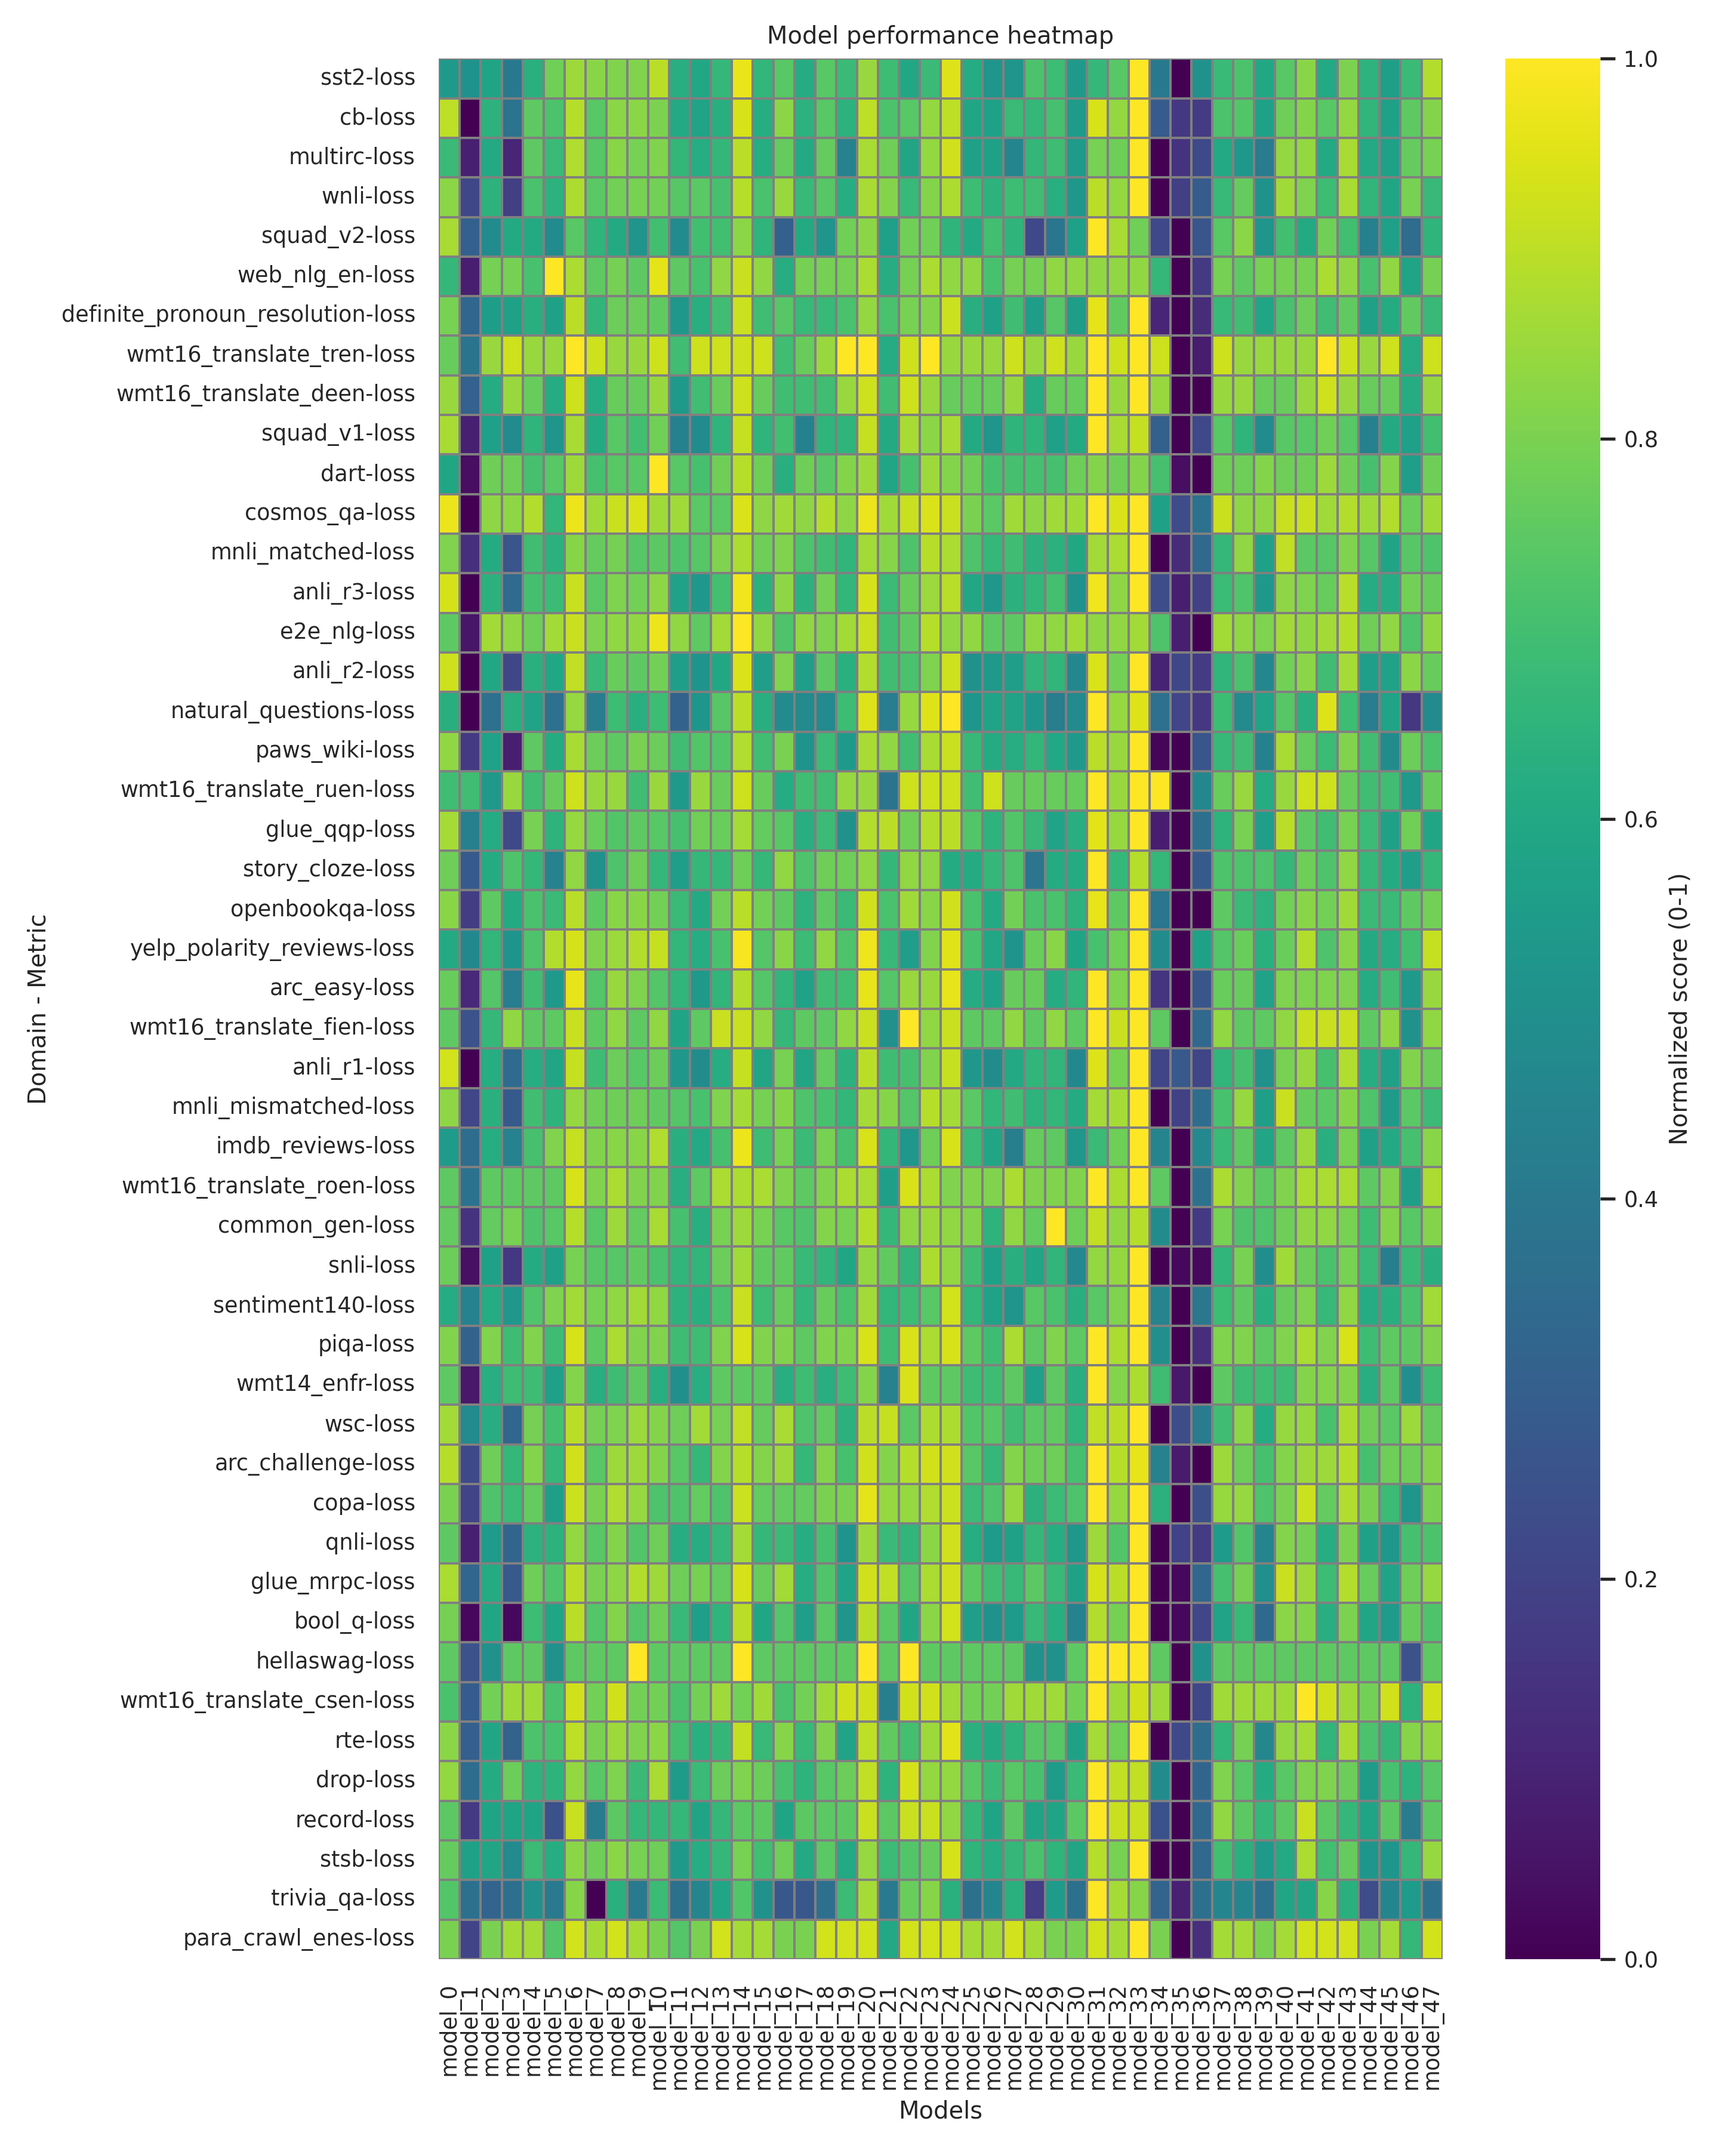
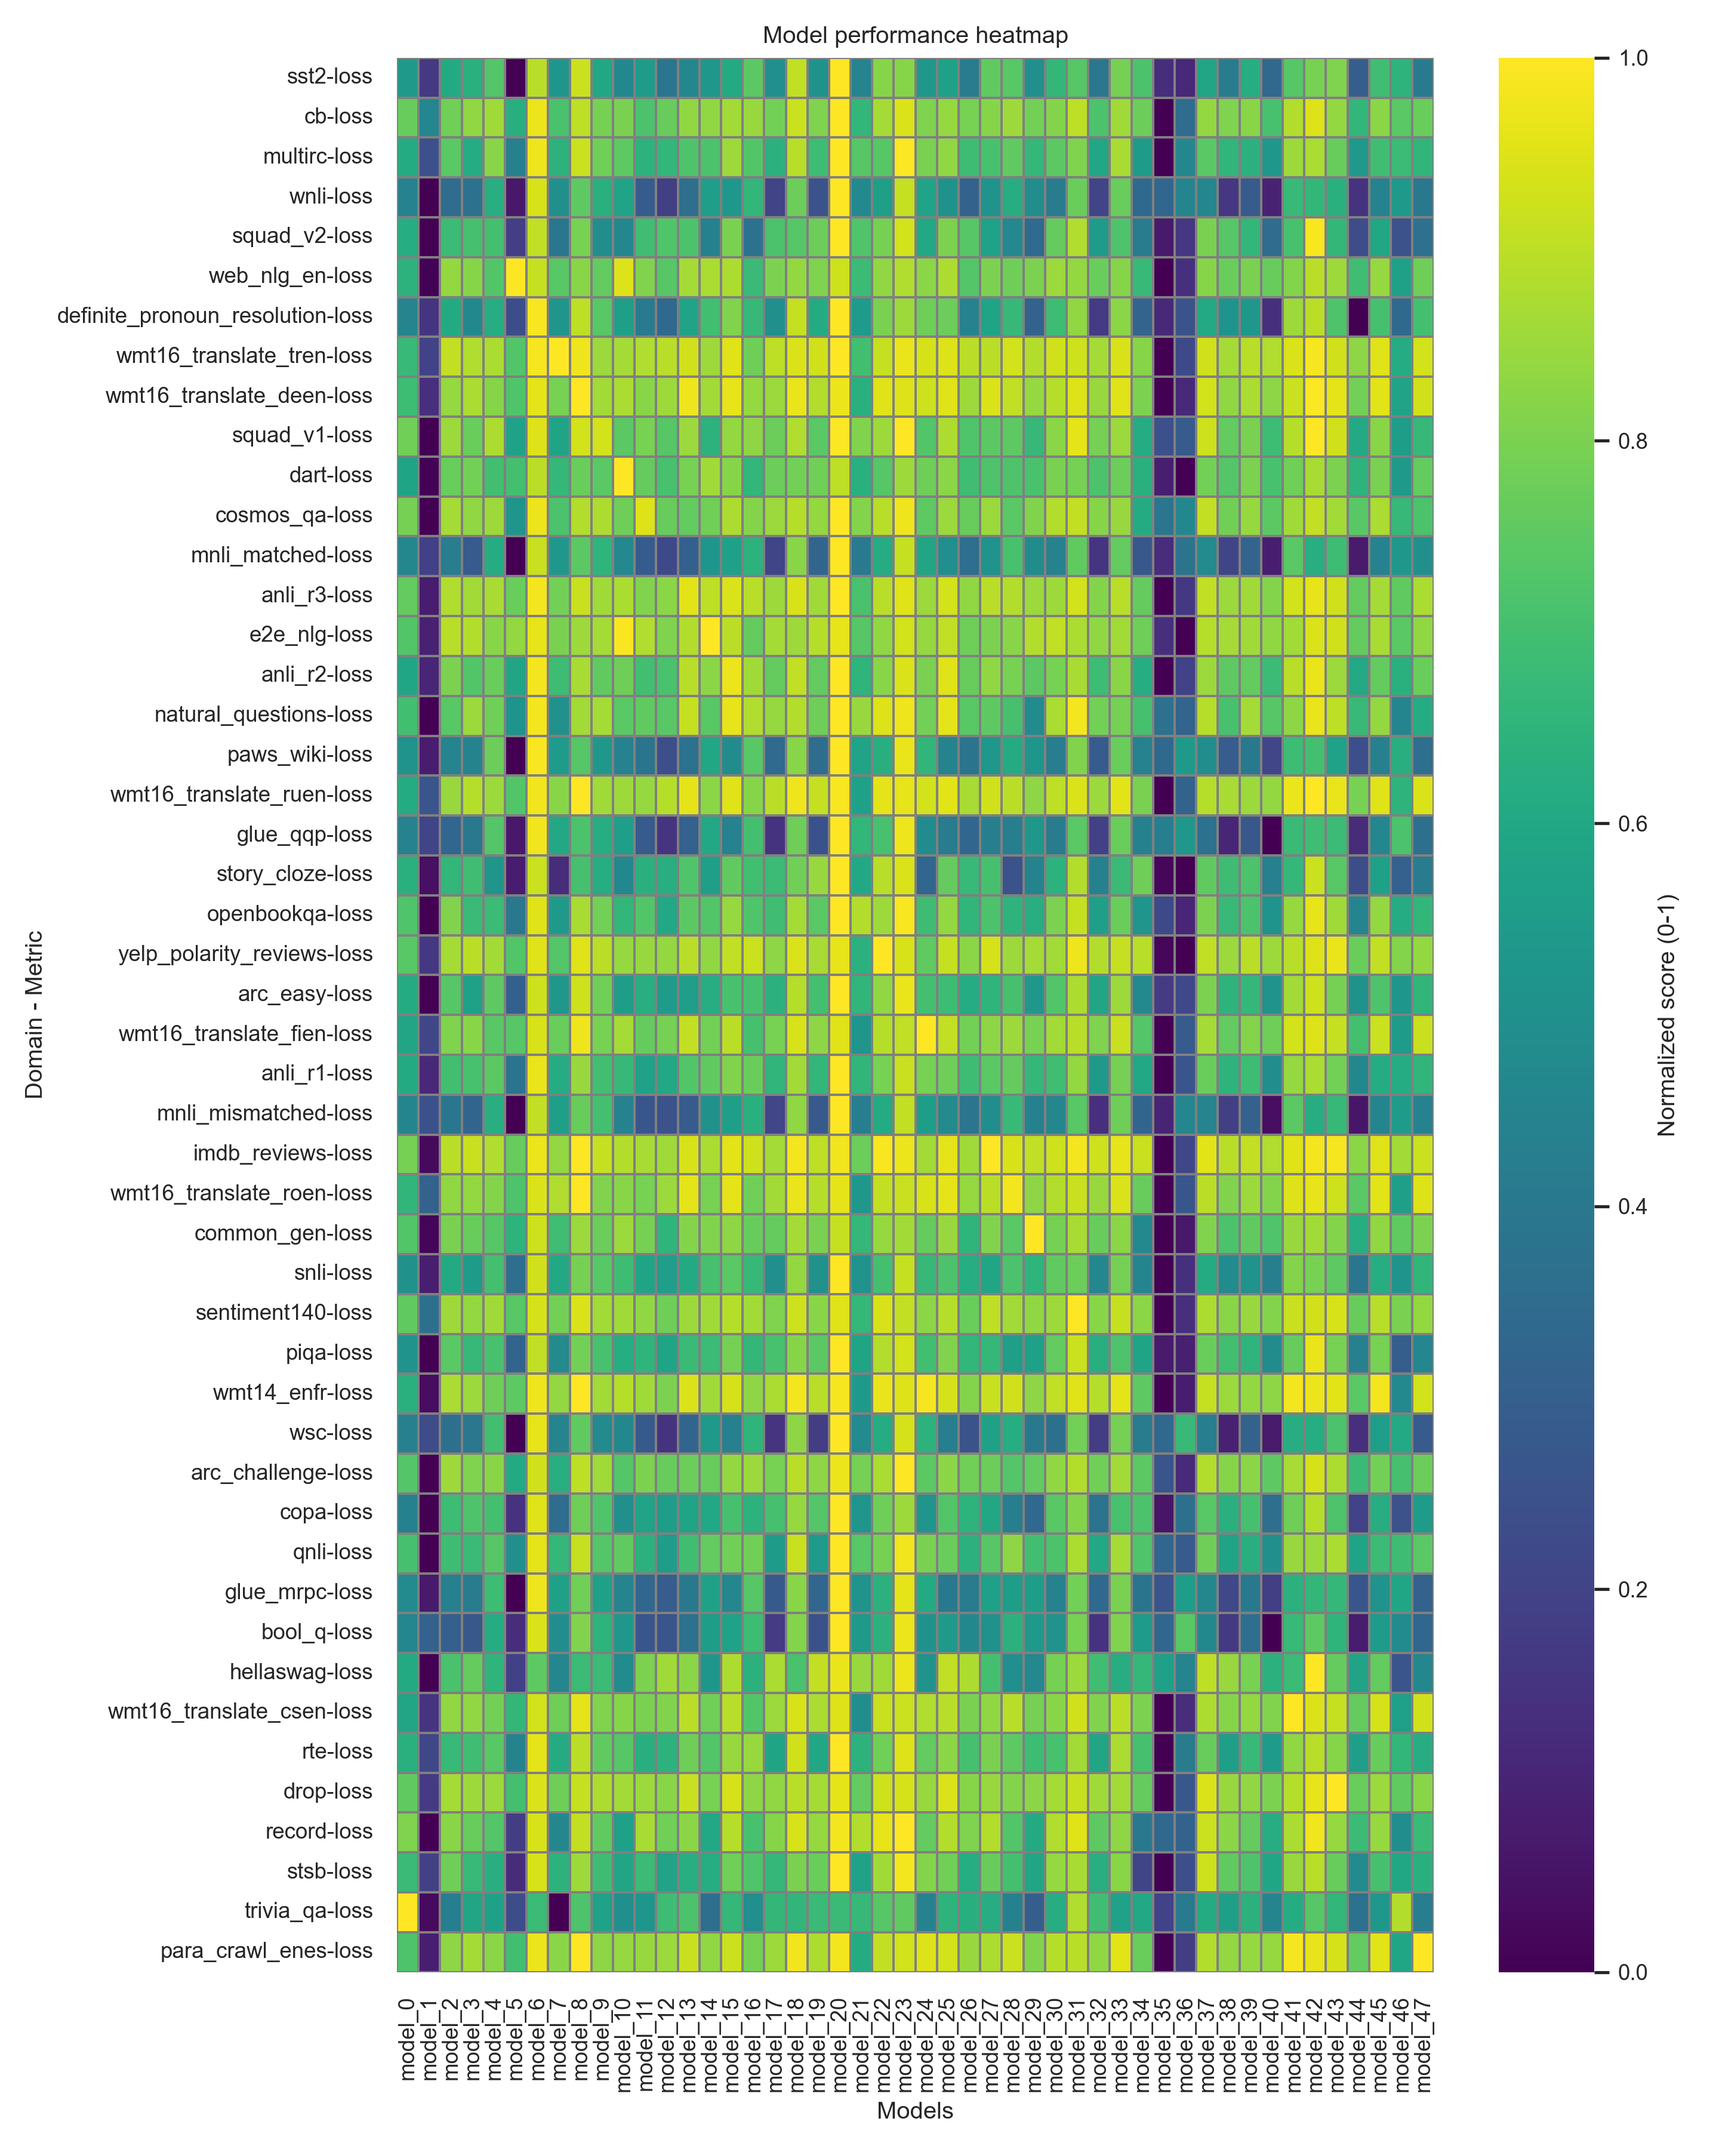
update generate loss results

diff --git a/performance_based_selection/generate_results_loss.py b/performance_based_selection/generate_results_loss.py
@@ -54,7 +54,7 @@ def process_folder(folder_path):
             for domain, tasks_data in domains_data.items():
                 for task, entries in tasks_data.items():
                     metric = entries[0]['metric']
-                    losses = [float(entry['loss']) for entry in entries if 'loss' in entry]
+                    losses = [float(entry['log_prob']) for entry in entries if 'loss' in entry]
                     domain_specific_metrics[domain]['loss'][file_name].append(np.mean(losses))
 
     return domain_specific_metrics
@@ -69,11 +69,11 @@ def convert_to_latex_modified(data, folder_path):
                 if file_name.startswith('model_loss') and file_name.endswith('.json'):
                     numeric_scores = [score for score in files[file_name] if isinstance(score, (int, float))]
                     average_score = np.mean(numeric_scores) if numeric_scores else 0
-                    row[file_name] = "{:.1f}".format(average_score)  # Format to one decimal place
+                    row[file_name] = "{:.4f}".format(average_score)  # Format to one decimal place
             data_list.append(row)
 
     df = pd.DataFrame(data_list)
-    columns_ordered = ['Domain-Metric'] + [file_name for file_name in os.listdir(folder_path) if file_name.startswith('model_loss') and file_name.endswith('.json')]
+    columns_ordered = ['Domain-Metric'] + ['model_loss0.json', 'model_loss20.json']#[file_name for file_name in os.listdir(folder_path) if file_name.startswith('model_loss') and file_name.endswith('.json')]
     df = df[columns_ordered]
     results = []
     for d in data_list:
